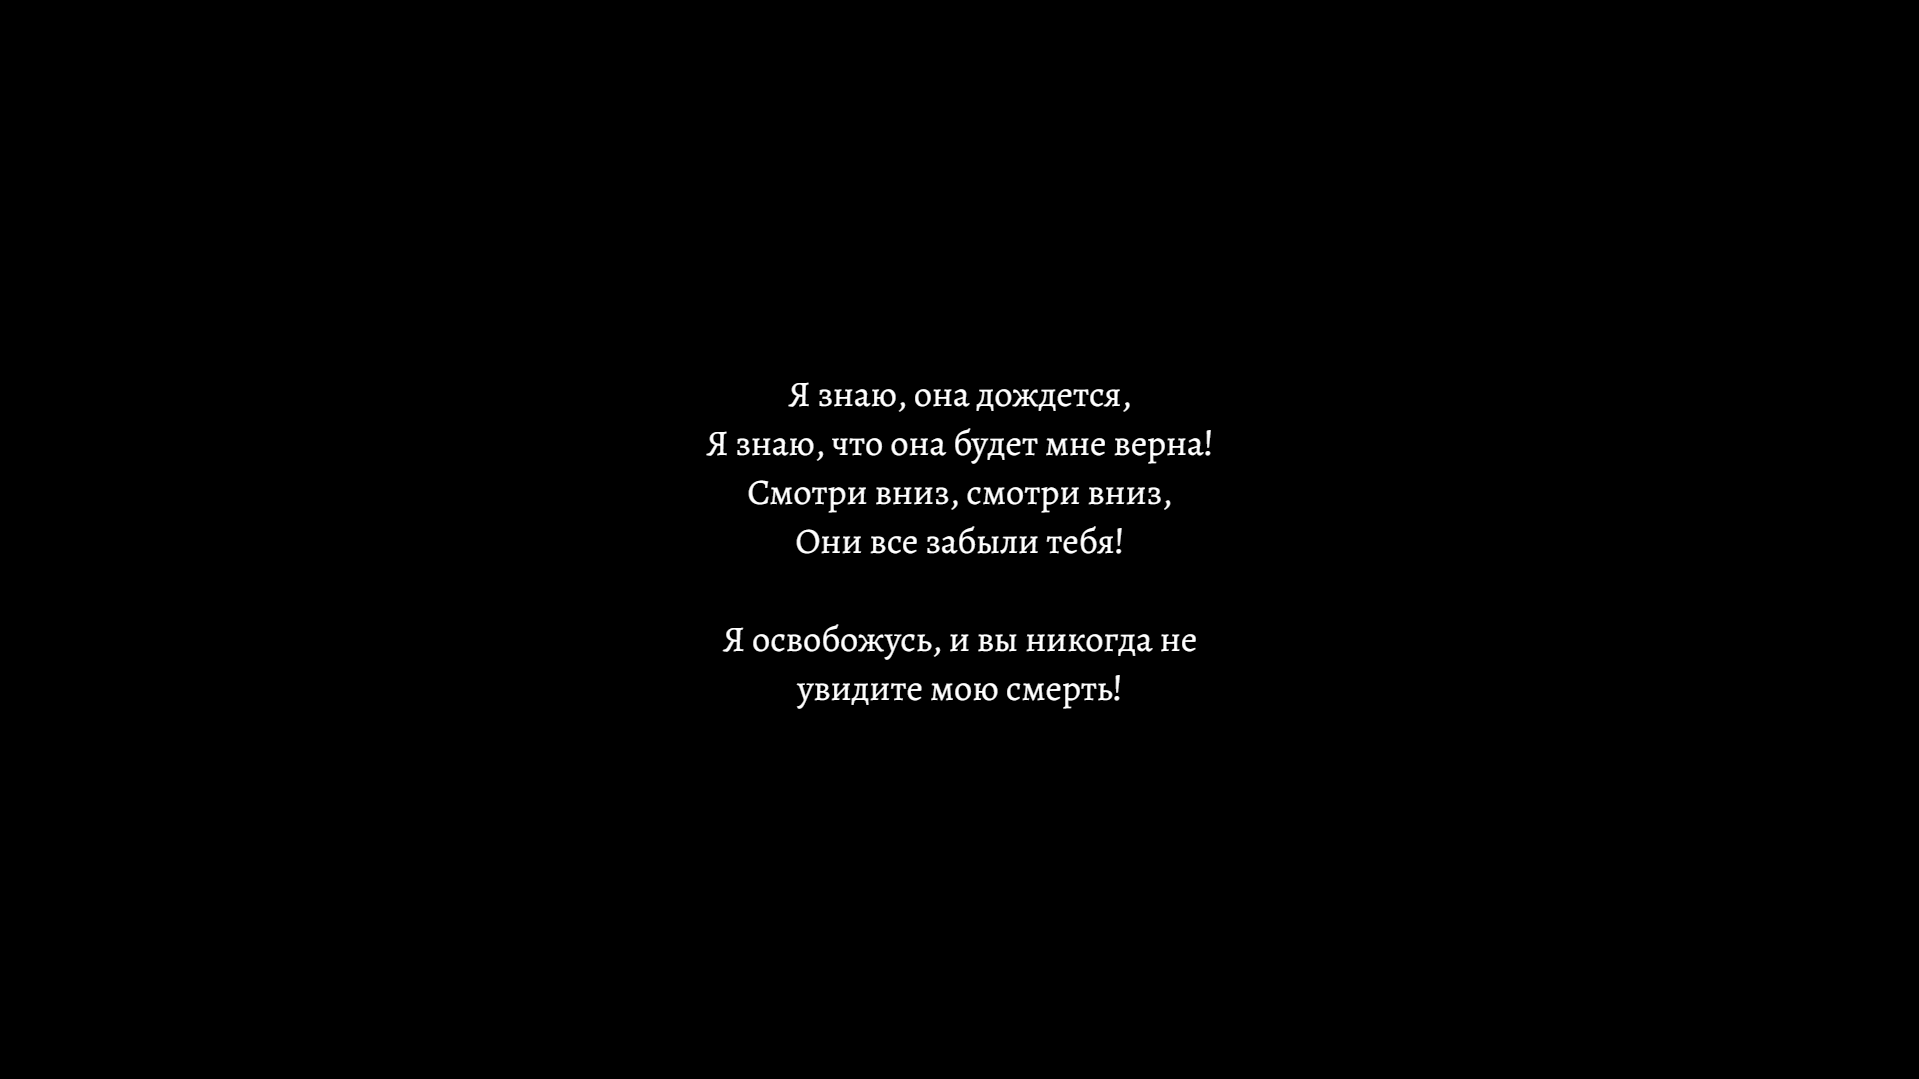
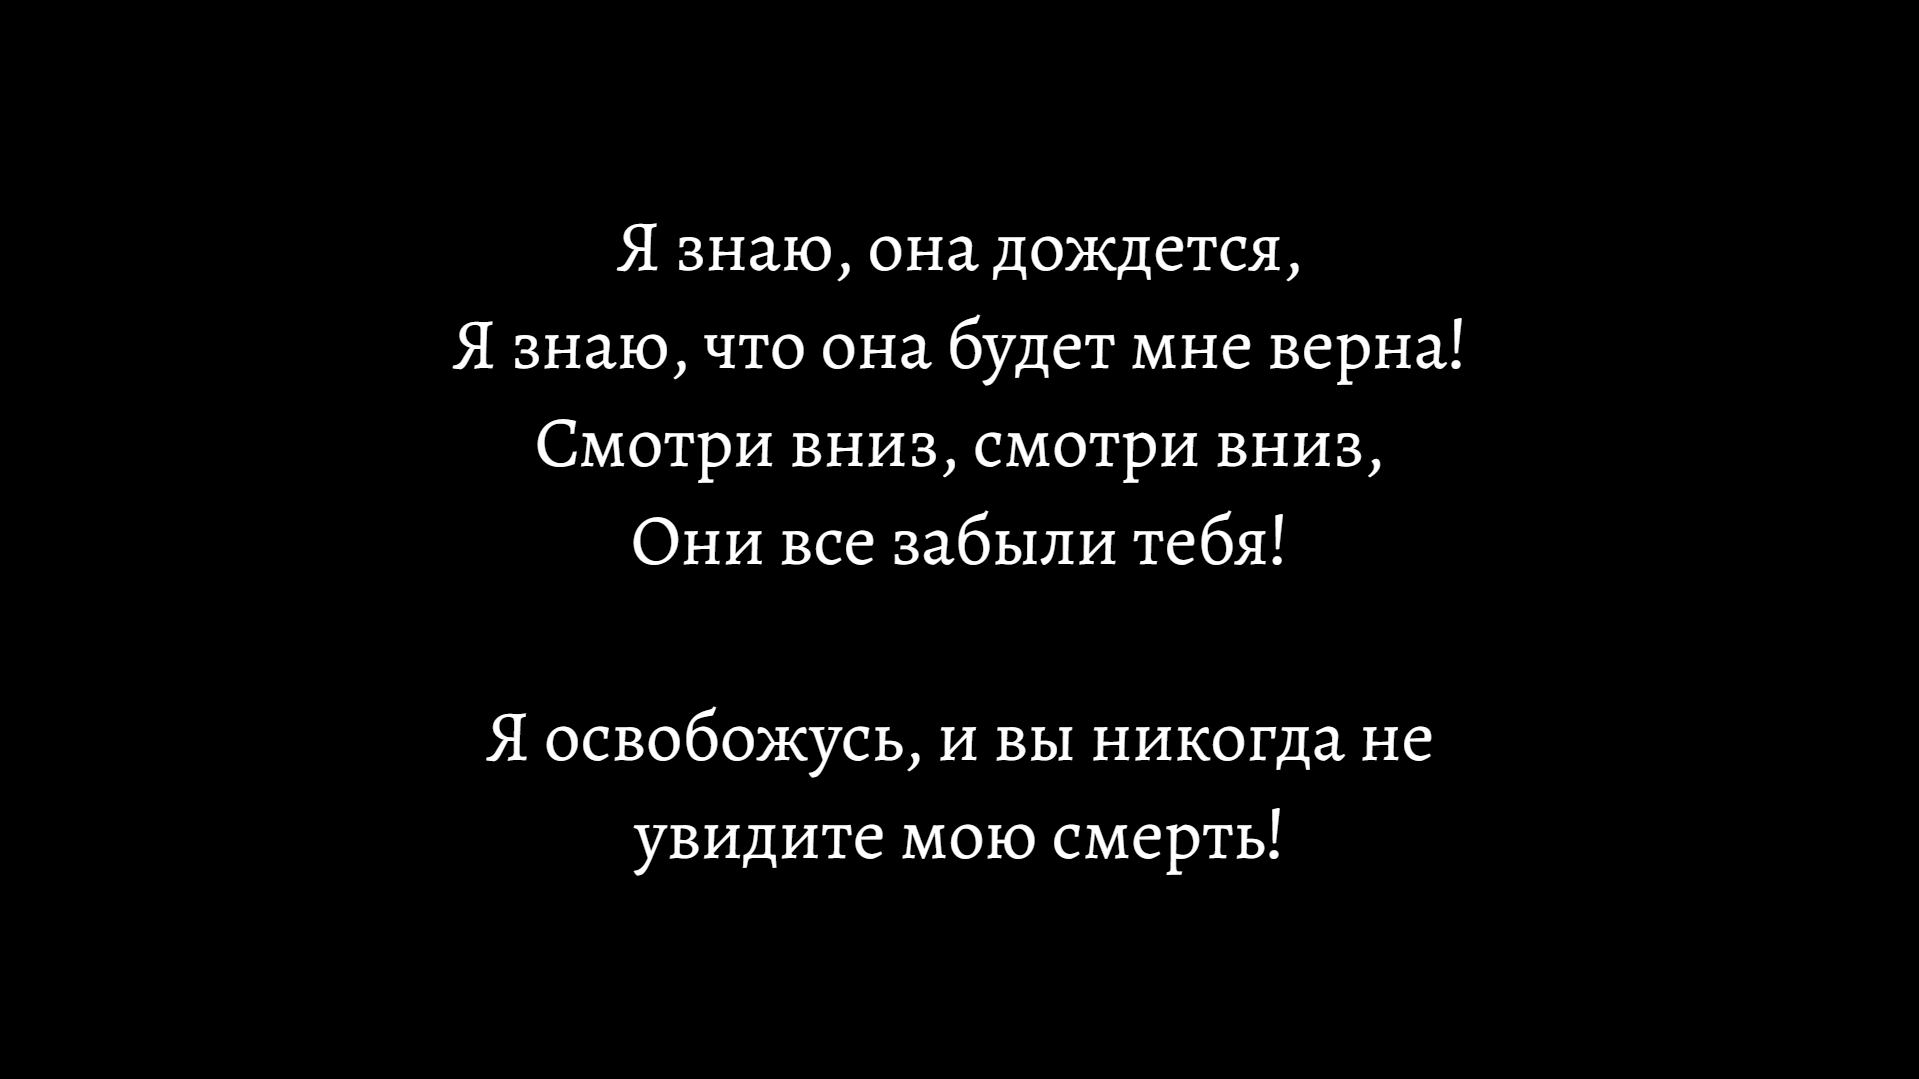
increased font

diff --git a/resources/css/styles.css b/resources/css/styles.css
@@ -21,7 +21,7 @@ body {
 p {
     text-align: center;
 
-    font-size: 36px;
+    font-size: 72px;
     color: #fff;
 }
 
